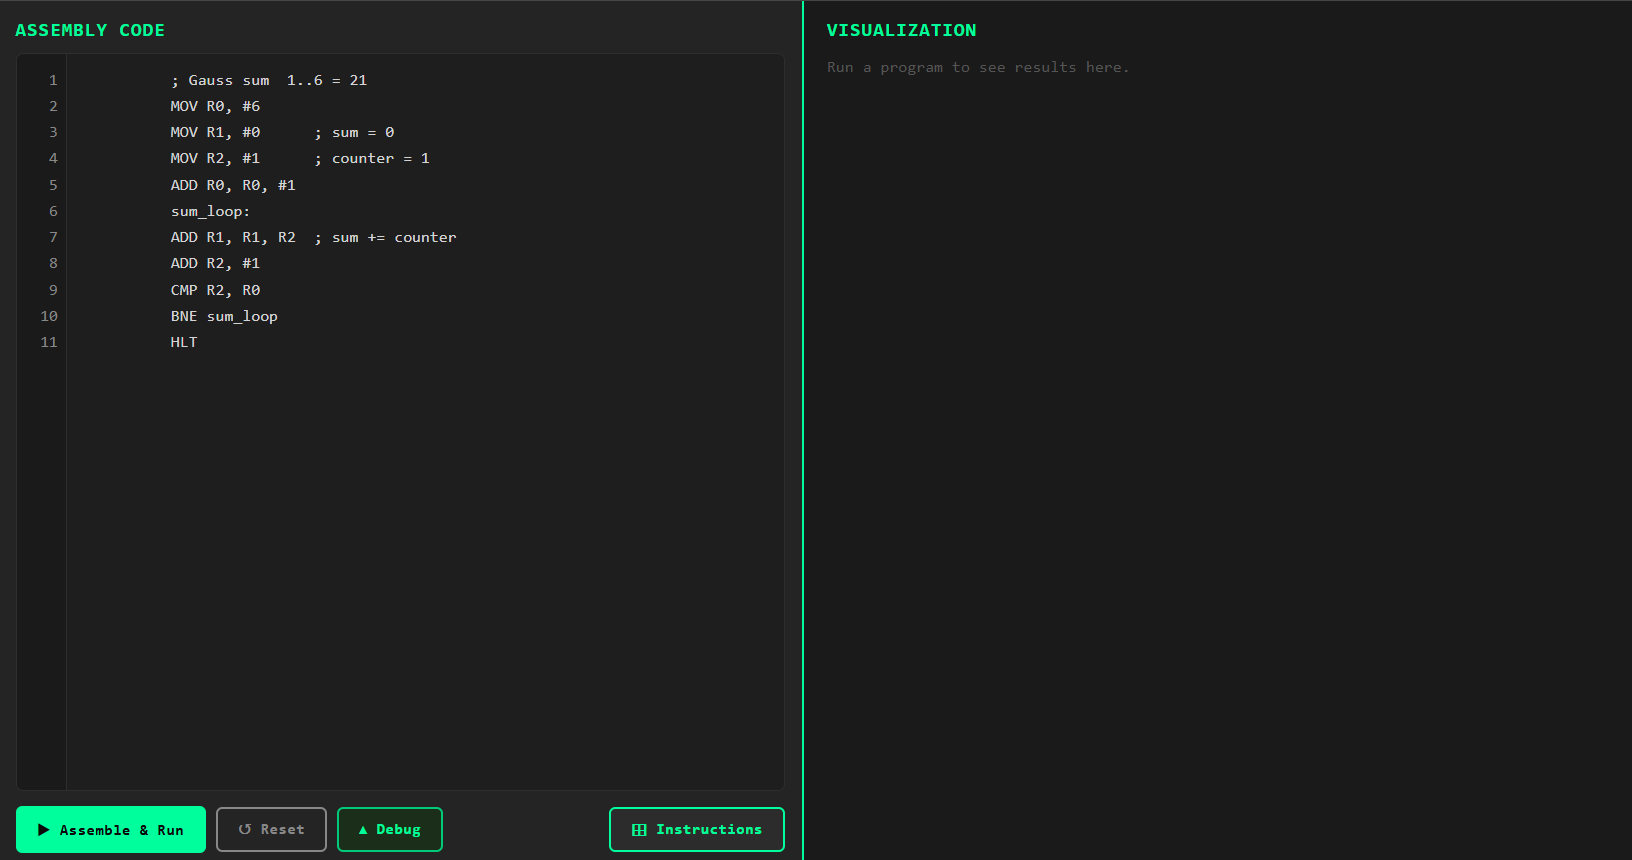
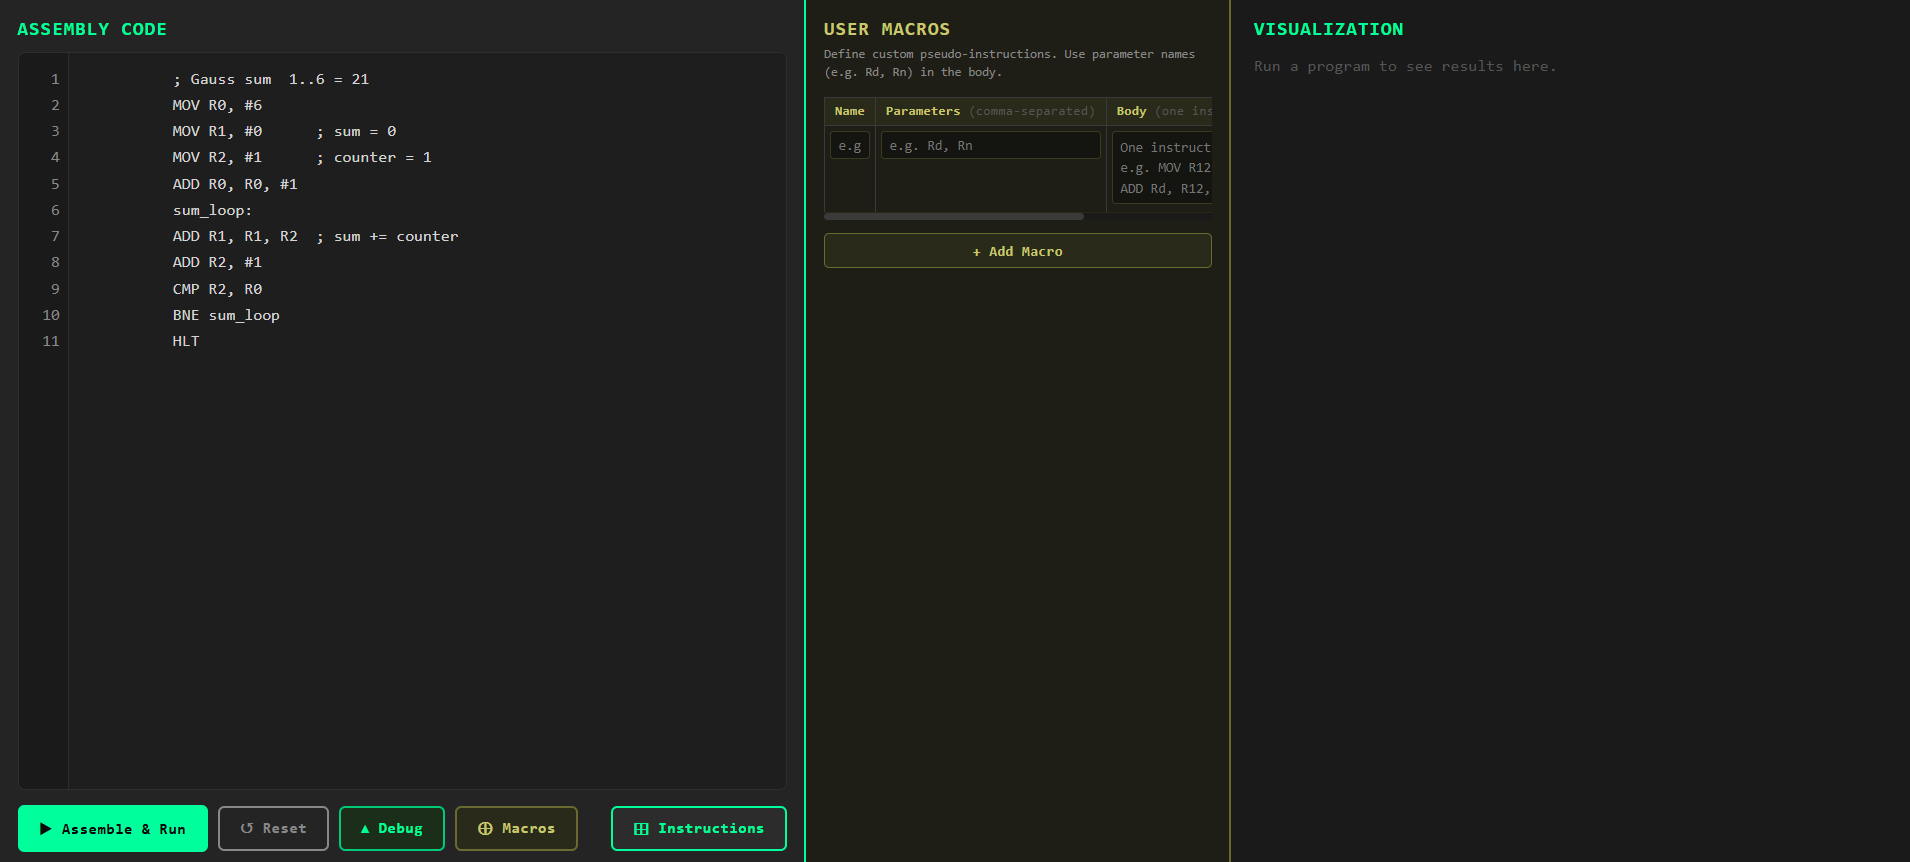
readme update

diff --git a/README.md b/README.md
@@ -1,6 +1,6 @@
 # ARM Assembly Simulator
 
-A browser-based 32-bit ARM-inspired CPU simulator — write assembly, assemble it, watch registers and memory change, and step through execution with the built-in debugger.
+A browser-based 32-bit ARM-inspired CPU simulator - write assembly, assemble it, watch registers and memory change, and step through execution with the built-in debugger.
 
 **Live demo:** https://arm-assembly-simulator.onrender.com  
 **Documentation:** [ARM Assembly Simulator Documentation](_docu/ARM_Assembly_Simulator_V2.pdf)
@@ -65,11 +65,34 @@ Together, these components form a lightweight yet realistic model of an ARM-styl
 
 Click **▲ Debug** to enter debug mode:
 
-- **Step →** — execute one instruction; current line highlighted in the editor, changed registers marked with a green dot
-- **Run »** — run continuously at ~120 ms/step
-- **✕ Stop** — exit debug mode
+- **Step ->** - execute one instruction; current line highlighted in the editor, changed registers marked with a green dot
+- **Run »** - run continuously at ~120 ms/step
+- **✕ Stop** - exit debug mode
 
 The debugger is server-side session-based. State is serialised between steps so the browser can be refreshed without losing progress (within the 30-minute session window).
+
+---
+
+## User-Defined Macros
+
+Click **⊕ Macros** to open the macro panel alongside the editor. Macros are custom pseudo-instructions the user defines - they are expanded by the assembler at assemble time, exactly like built-in pseudos, with no runtime overhead.
+
+Each macro has three fields:
+
+| Field      | Description                                                                 | Example                                              |
+| ---------- | --------------------------------------------------------------------------- | ---------------------------------------------------- |
+| Name       | The mnemonic you use in your program. Case-insensitive.                     | `TRIPLE`                                             |
+| Parameters | Comma-separated placeholder names used in the body.                         | `Rd, Rn`                                             |
+| Body       | One instruction per line. Parameter names are substituted at assemble time. | `MOV R12, Rn` ↵ `ADD Rd, R12, Rn` ↵ `ADD Rd, Rd, Rn` |
+
+After defining `TRIPLE` with params `Rd, Rn` and the body above, write `TRIPLE R1, R0` in your program - the assembler substitutes `Rd->R1`, `Rn->R0` and emits 3 machine words.
+
+**Rules:**
+
+- Macros cannot call themselves (no recursion).
+- Parameter substitution is token-aware - a param named `Rn` will not accidentally match inside `R10`.
+- Macros are included automatically in every Assemble & Run and Debug session for the duration of the page.
+- The assembler correctly accounts for macro word counts when resolving label addresses.
 
 ---
 
